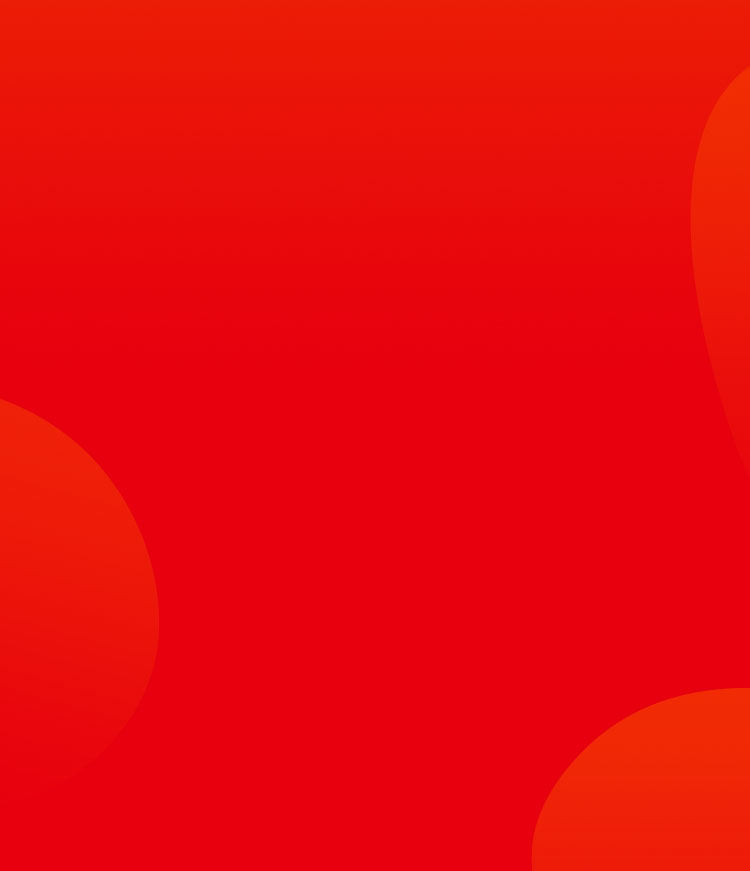
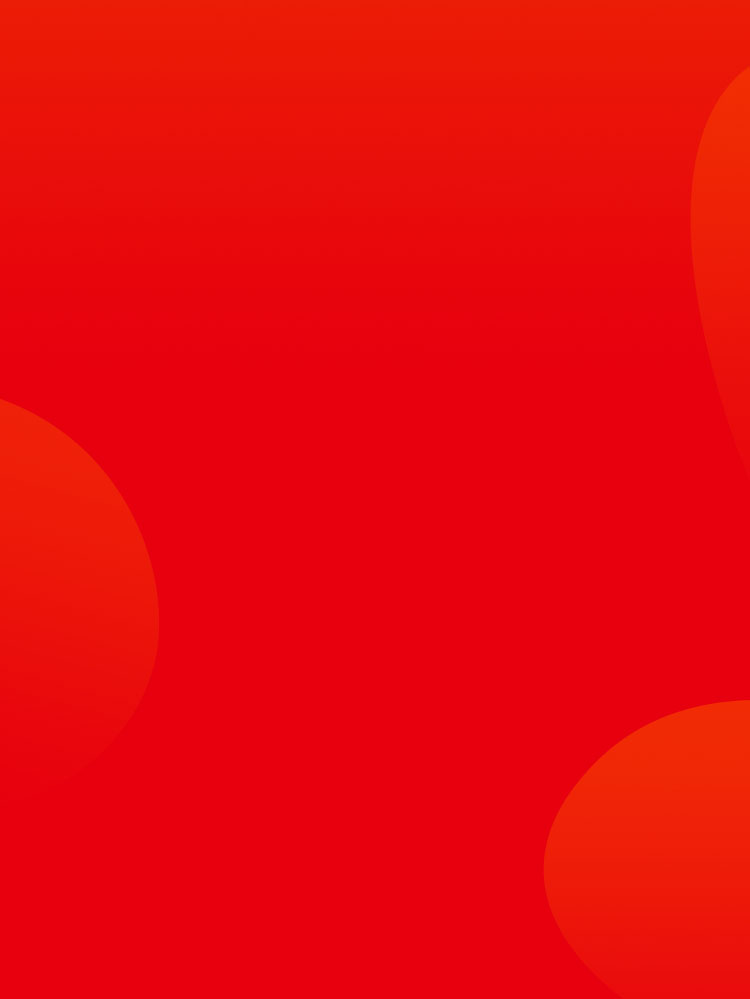
图片替换，添加短信渠道判断

Changed region(s): [[0.7053, 0.682, 1.0, 1.0], [0.0, 0.403, 0.2147, 0.589]]

diff --git a/src/view/kaimenhong/template/index.html b/src/view/kaimenhong/template/index.html
@@ -8,9 +8,18 @@
   <title>开启美好旅途，和谐健康随行</title>
 
   <script>
-    if (navigator.userAgent.toLowerCase().match(/MicroMessenger/i) ==
-    'micromessenger' && window.location.search.indexOf('code') === -1) {
-      window.location.href = 'https://open.weixin.qq.com/connect/oauth2/authorize?appid=wxaec1b9035e6a21ef&redirect_uri=https%3A%2F%2Fjk.anbanggroup.com%2Fwebsitedat%2Fweixin%2Fkaimenhong%2Ftemplate%2Findex.html&response_type=code&scope=snsapi_base&state=jyscgh-20d569f0-56eb-4fdd-a264-fb9c4c76cb33#wechat_redirect'
+    var hrefArr = window.location.href.match(/\/website([^/]*)\//i)
+    var env = hrefArr ? hrefArr[1] : 'dat'
+    var sms = window.location.href.match(/SMS$/i)
+    var redirect_uri = `https://jk.anbanggroup.com/website${env}/weixin/kaimenhong/template/index.html`
+
+    if (sms && navigator.userAgent.toLowerCase().match(/MicroMessenger/i) ==
+      'micromessenger' && window.location.search.indexOf('code') === -1) {
+      redirect_uri = redirect_uri + '?source=SMS'
+      window.location.href = `https://open.weixin.qq.com/connect/oauth2/authorize?appid=wxaec1b9035e6a21ef&redirect_uri=${encodeURIComponent(redirect_uri)}&response_type=code&scope=snsapi_base&state=jyscgh-20d569f0-56eb-4fdd-a264-fb9c4c76cb33#wechat_redirect`
+    } else if (navigator.userAgent.toLowerCase().match(/MicroMessenger/i) ==
+      'micromessenger' && window.location.search.indexOf('code') === -1) {
+      window.location.href = `https://open.weixin.qq.com/connect/oauth2/authorize?appid=wxaec1b9035e6a21ef&redirect_uri=${encodeURIComponent(redirect_uri)}&response_type=code&scope=snsapi_base&state=jyscgh-20d569f0-56eb-4fdd-a264-fb9c4c76cb33#wechat_redirect`
     }
   </script>
   <script type="text/javascript" src="../js/flexible.js"></script>
@@ -90,6 +99,7 @@
         <p>活动期间，一个账号只能领取一份公共交通意外险赠险；</p>
         <p>公共交通意外险赠险只能为本人投保，且不可退保；</p>
         <p>五折购买权益被保人不限本人；</p>
+        <p>参与本活动，客服人员可能会通过电话进行回访；</p>
         <p>本活动解释权归和谐健康保险股份有限公司所有。</p>
       </div>
       <div class="section-04">
@@ -99,15 +109,16 @@
     </div>
     <div class="dialog">
       <div class="share">
-          <img src="../img/index-39.png" alt="">
-          <span class="close"></span>
+        <img src="../img/index-39.png" alt="">
+        <span class="close"></span>
       </div>
       <div class="follow">
-          <img src="../img/index-38.png" alt="">
-          <span class="close"></span>
+        <img src="../img/index-38.png" alt="">
+        <span class="close"></span>
       </div>
       <div class="error">
-        <p>获取公众号关注状态失败<br />请刷新页面重试</p>
+        <p>获取公众号关注状态失败
+          <br />请刷新页面重试</p>
         <span class="close">知道了</span>
       </div>
     </div>

diff --git a/src/view/kaimenhong/less/index.less b/src/view/kaimenhong/less/index.less
@@ -40,7 +40,7 @@
 
     .bg-04 {
       width: 100%;
-      height: 871px;
+      height: 999px;
       background-image: url('../img/index-08.jpg');
       background-repeat: no-repeat;
       background-position: center center;
@@ -399,7 +399,7 @@
   
     .section-03 {
       width: 706px;
-      height: 519px;
+      height: 626px;
       background-image: url('../img/index-03.png');
       background-repeat: no-repeat;
       background-position: center center;
@@ -411,7 +411,7 @@
       .title {
         width: 100%;
         height: 33px;
-        margin: 50px 0 36px 0;
+        margin: 50px 0 50px 0;
         display: flex;
         flex-direction: row;
         justify-content: center;
@@ -459,8 +459,8 @@
       }
 
       p {
-        width: 582px;
-        padding-left: 44px;
+        width: 570px;
+        padding-left: 56px;
         height: auto;
         line-height: 44px;
         margin: 0 auto 9px auto;
@@ -483,12 +483,16 @@
       p:nth-child(5) {
         background-image: url('../img/index-37.png');
       }
+      p:nth-child(6) {
+        background-image: url('../img/index-42.png');
+      }
     }
 
     .section-04 {
       width: 100%;
       height: auto;
       overflow: hidden;
+      margin-top: 12px;
 
       img {
         display: block;
@@ -576,5 +580,19 @@
         color: #e63c32;
       }
     }
+  }
+}
+
+.SMS {
+  height: 32rem;
+
+  .section-02 {
+    display: none;
+  }
+  .decorate-04 {
+    display: none;
+  }
+  .decorate-05 {
+    display: none;
   }
 }

diff --git a/src/view/kaimenhong/css/index.css b/src/view/kaimenhong/css/index.css
@@ -42,7 +42,7 @@
 
 .index .bg .bg-04 {
   width: 100%;
-  height: 11.613333rem;
+  height: 13.32rem;
   background-image: url('../img/index-08.jpg');
   background-repeat: no-repeat;
   background-position: center center;
@@ -407,7 +407,7 @@
 
 .index .section .section-03 {
   width: 9.413333rem;
-  height: 6.92rem;
+  height: 8.346667rem;
   background-image: url('../img/index-03.png');
   background-repeat: no-repeat;
   background-position: center center;
@@ -420,7 +420,7 @@
 .index .section .section-03 .title {
   width: 100%;
   height: 0.44rem;
-  margin: 0.666667rem 0 0.48rem 0;
+  margin: 0.666667rem 0 0.666667rem 0;
   display: flex;
   flex-direction: row;
   justify-content: center;
@@ -471,8 +471,8 @@
 }
 
 .index .section .section-03 p {
-  width: 7.76rem;
-  padding-left: 0.586667rem;
+  width: 7.6rem;
+  padding-left: 0.746667rem;
   height: auto;
   line-height: 0.586667rem;
   margin: 0 auto 0.12rem auto;
@@ -499,10 +499,15 @@
   background-image: url('../img/index-37.png');
 }
 
+.index .section .section-03 p:nth-child(6) {
+  background-image: url('../img/index-42.png');
+}
+
 .index .section .section-04 {
   width: 100%;
   height: auto;
   overflow: hidden;
+  margin-top: 0.16rem;
 }
 
 .index .section .section-04 img {
@@ -589,4 +594,20 @@
   text-align: center;
   font-size: 0.48rem;
   color: #e63c32;
+}
+
+.SMS {
+  height: 32rem;
+}
+
+.SMS .section-02 {
+  display: none;
+}
+
+.SMS .decorate-04 {
+  display: none;
+}
+
+.SMS .decorate-05 {
+  display: none;
 }

diff --git a/src/view/kaimenhong/js/index.js b/src/view/kaimenhong/js/index.js
@@ -1,4 +1,10 @@
 $(function() {
+  // 短信渠道
+  var source = getURLParams('source')
+  if (source === 'SMS') {
+    $('.index').addClass('SMS')
+  }
+
   var href = window.location.href.match(/http.+\/website[^\/]*\//gi)
   const ip = href ? href[0] : 'https://jk.anbanggroup.com/websitedat/'
   // const ip = 'https://jk.anbanggroup.com/websiteyaoyao/'
@@ -136,10 +142,10 @@ $(function() {
   // 分享活动页
   var targetUrl = location.href.split('#')[0]
   var shareUrl = location.href.split('?')[0], // 分享的URL地址
-    shareTitle = '开启美好旅途，和谐健康随行', // 分享的标题
-    shareTimelineTitle = '开启美好旅途，和谐健康随行', // 朋友圈分享的标题
+    shareTitle = '免费领取公共交通意外险+5折投保权益！', // 分享的标题
+    shareTimelineTitle = '免费领取公共交通意外险+5折投保权益！', // 朋友圈分享的标题
     shareImage = ip + 'weixin/kaimenhong/img/index-41.png', // 分享的图片地址
-    shareDesc = '免费领取公共交通意外险+5折投保权益！' // 分享的描述信息
+    shareDesc = '开启美好旅途，和谐健康随行' // 分享的描述信息
 
   $.ajax({
     type: 'POST',
